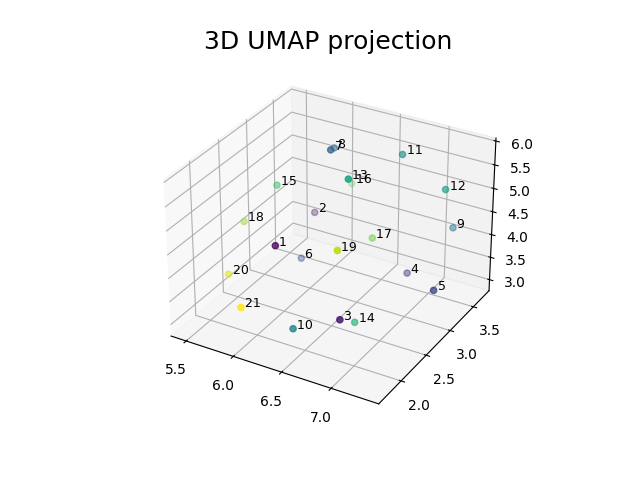
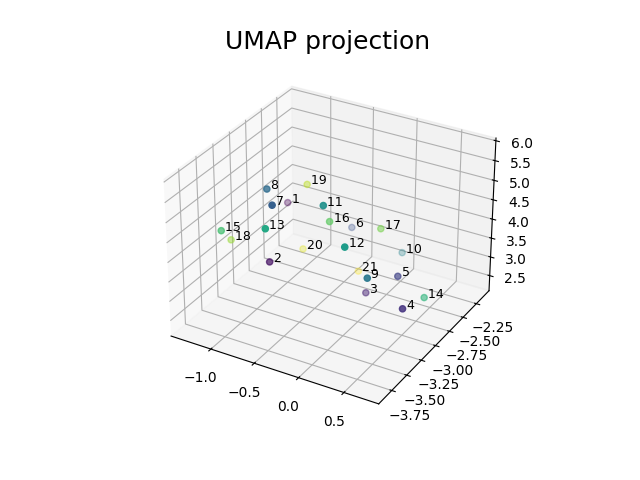
added ANN indexing for building and retieving index

diff --git a/ANN_Offline.py b/ANN_Offline.py
@@ -1,0 +1,65 @@
+import faiss
+import numpy as np
+import json
+from sentence_transformers import SentenceTransformer
+
+def save_template_map():
+    with open('data/example_temp.txt', 'r') as f:
+        content = f.read()
+
+    templates_raw = content.split('---')
+    first_template_content = templates_raw[0]
+    start_index = first_template_content.find("###")
+    if start_index != -1:
+        templates_raw[0] = first_template_content[start_index:]
+
+    templates = [t.strip() for t in templates_raw if t.strip()]
+
+    id_to_template = {i: template for i, template in enumerate(templates)}
+
+    output_path = "data/id_to_template.json"
+    with open(output_path, "w") as f:
+        json.dump(id_to_template, f, indent=4)
+
+    print(f"Mapping from ID to template saved successfully in {output_path}.")
+
+def build_index(embeddings, labels):
+    M = 3 
+    dimension = embeddings.shape[1]
+    index = faiss.IndexHNSWFlat(dimension, M, faiss.METRIC_INNER_PRODUCT)
+    faiss.normalize_L2(embeddings)
+    print("Faiss index created.")
+    print(f"Index is trained: {index.is_trained}")
+    index.add(embeddings)
+    print(f"Total vectors in index: {index.ntotal}")
+    return index
+
+def load_index():
+    print("Loading pre-built index and resources...")
+    index = faiss.read_index("index/reflection_templates.index")
+    with open("data/id_to_template.json", "r") as f:
+        id_to_template = {int(k): v for k, v in json.load(f).items()}
+    print("Ready to receive queries.")
+    return index, id_to_template
+
+def find_k_candidates(index, query, model,id_to_template,k=5):
+    query_embedding = model.encode(query)
+    query_embedding=np.array(query_embedding).astype('float32')
+    faiss.normalize_L2(query_embedding)
+    distances,indices=index.search(query_embedding,k)
+    results=[]
+    print(f"\nSearching for '{query}':")
+    print("-" * 30)
+    for i in range(k):
+        retrieved_id=indices[0][i]
+        similarity_score=distances[0][i]
+        retrieved_template=id_to_template[retrieved_id]
+        results.append({
+            'id':retrieved_id,
+            'similarity_score':similarity_score,
+            'template':retrieved_template
+        })
+        print(f"Rank {i+1}: (ID: {retrieved_id}, Score: {similarity_score:.4f})")
+        print(f"   L> {retrieved_template}")
+    return results
+

diff --git a/encode_templates.py b/encode_templates.py
@@ -32,19 +32,10 @@ def get_templates_from_file(filepath):
         
     return processed_templates, labels
 
-def main():
+def encode_templates(templates, labels,model):
     """
-    Main function to extract templates, encode them, and save the embeddings and labels.
+    Function to extract templates, encode them, and save the embeddings and labels.
     """
-    print("Loading sentence transformer model...")
-    model = SentenceTransformer("all-MiniLM-L6-v2")
-    print("Model loaded.")
-
-    filepath = 'data/example_temp.txt'
-    print(f"Reading templates from {filepath}...")
-    templates, labels = get_templates_from_file(filepath)
-    print(f"Found {len(templates)} templates.")
-
     if templates:
         print("Encoding templates...")
         embeddings = model.encode(templates)
@@ -66,6 +57,5 @@ def main():
         print("Labels saved successfully.")
     else:
         print("No templates found in the file.")
+    return embeddings, labels
 
-if __name__ == "__main__":
-    main() 

diff --git a/main.py b/main.py
@@ -1,0 +1,25 @@
+from encode_templates import*
+from umap_visualizer import*
+from ANN_Offline import*
+import os
+
+model=SentenceTransformer('all-MiniLM-L6-v2')
+
+def main():
+    templates,labels=get_templates_from_file('data/example_temp.txt')
+    embeddings, labels=encode_templates(templates,labels,model)
+    umap_embeddings=umap_embed(embeddings)
+    draw_umap(umap_embeddings,labels, n_components=3, title='UMAP projection')
+    index = build_index(embeddings, labels)
+    
+    index_folder = 'index'
+    if not os.path.exists(index_folder):
+        os.makedirs(index_folder)
+    faiss.write_index(index, f"{index_folder}/reflection_templates.index")
+
+    save_template_map()
+    # index,id_to_template=load_index()
+    # find_k_candidates(index,model,id_to_template,k=5)
+
+if __name__ == '__main__':
+    main()

diff --git a/umap_visualizer.py b/umap_visualizer.py
@@ -40,9 +40,9 @@ def draw_umap(embeddings, labels, n_neighbors=15, min_dist=0.1, n_components=2, 
     plt.savefig(os.path.join(output_dir, f'umap_plot_{n_components}d.png'))
     plt.close()
 
-if __name__ == '__main__':
-    embeddings = np.load('embeddings/thought_templates_embeddings.npy')
-    labels = np.load('embeddings/thought_templates_labels.npy')
-    draw_umap(embeddings, labels, n_components=3, title='UMAP projection')
+# if __name__ == '__main__':
+#     embeddings = np.load('embeddings/thought_templates_embeddings.npy')
+#     labels = np.load('embeddings/thought_templates_labels.npy')
+#     draw_umap(embeddings, labels, n_components=3, title='UMAP projection')
     # draw_umap(embeddings, n_components=2, title='2D UMAP projection')
     # draw_umap(embeddings, n_components=1, title='1D UMAP projection')
